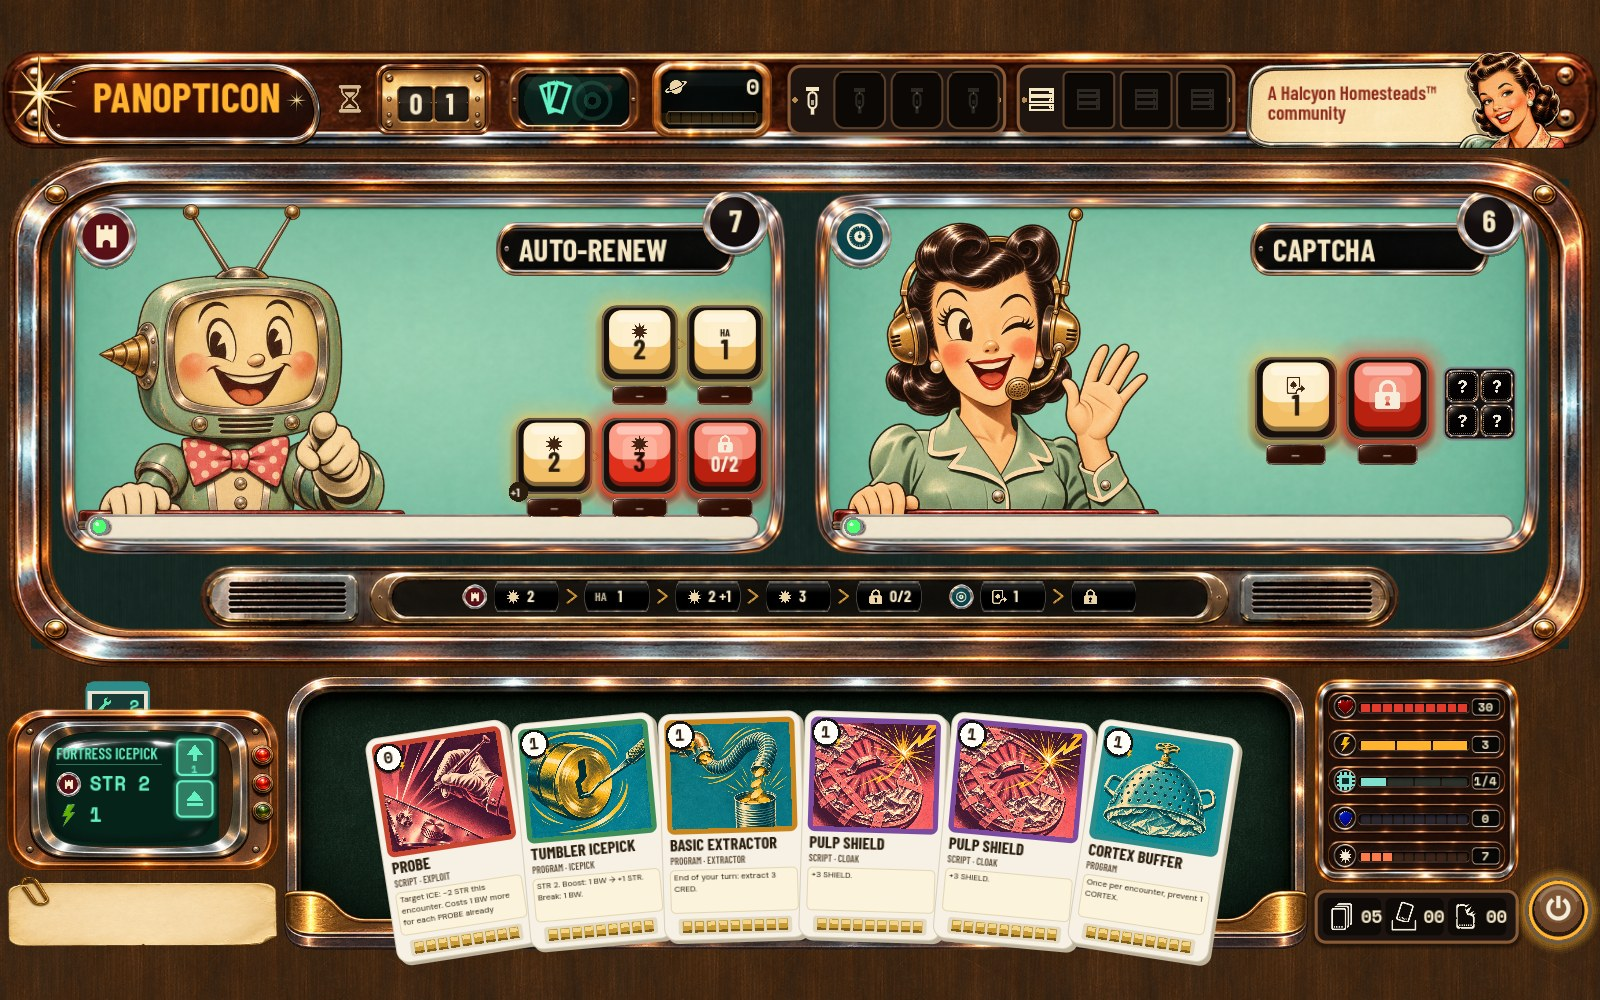
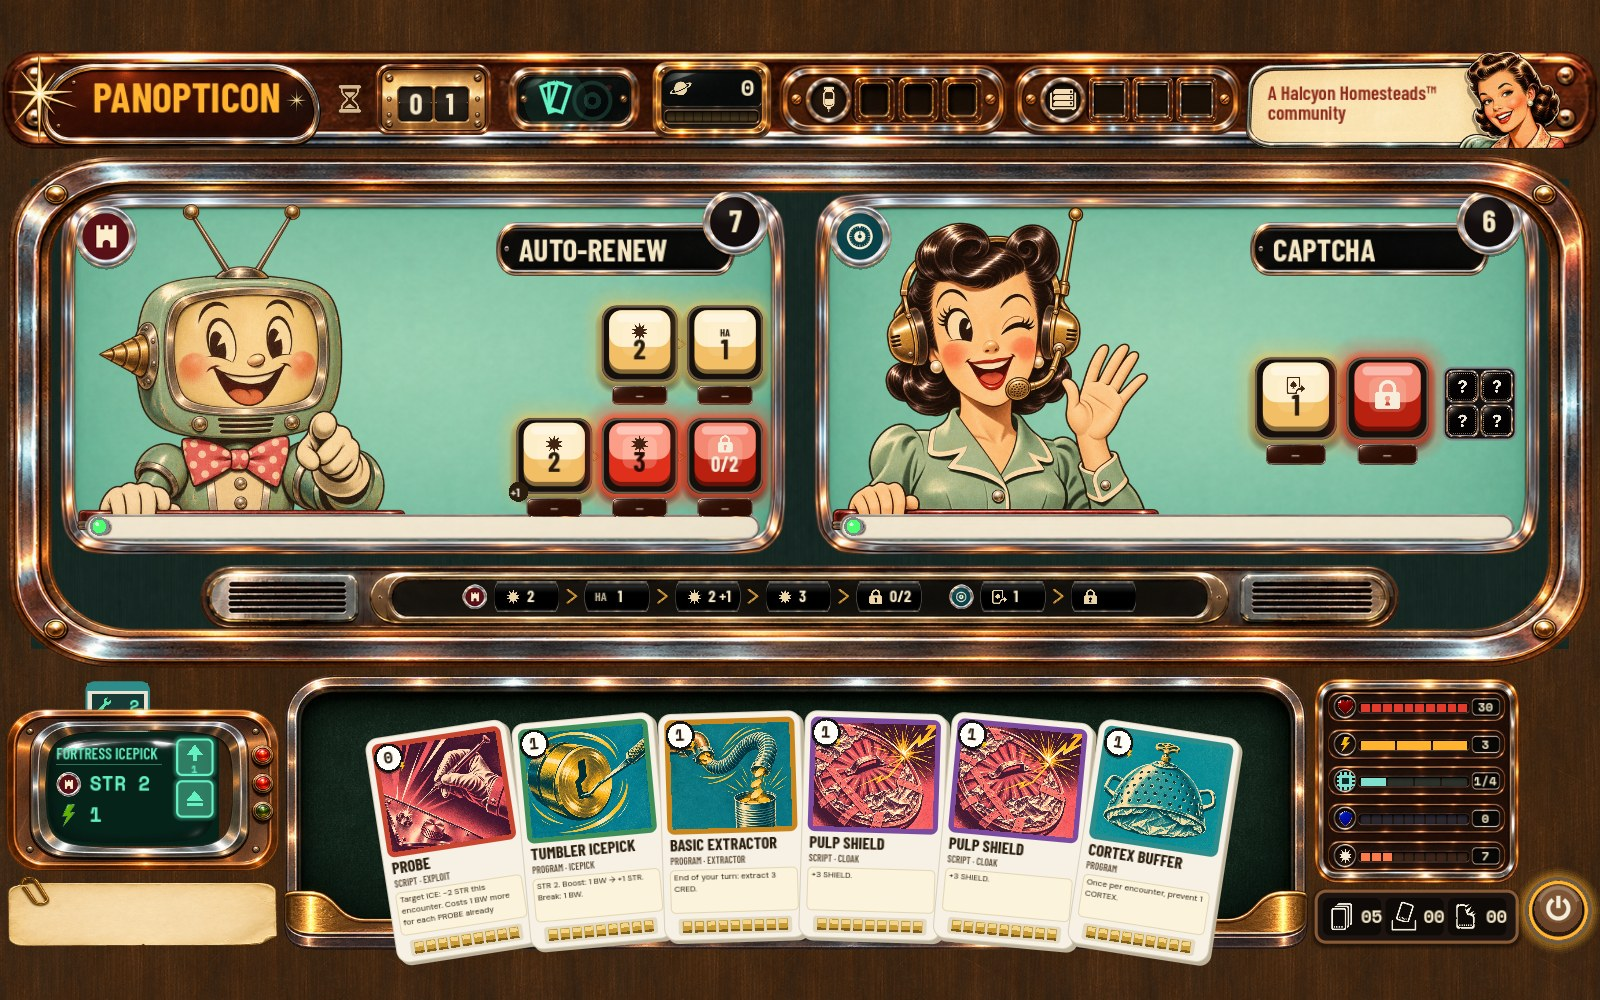
ARCH-V2-005d: header slot art (VAS-ASSET-001 6e) added and wired
Seven ChatGPT parts: half phase plaque, half TRACE housing, slot rack,
CAP and PROTOCOL sockets, CAPS and PROTOCOL icons. Plaque and rack drawn
as nine-slices (both wider than asked); racks 219 px; slots ~37 x 41.

Claude-Session: https://claude.ai/code/session_019hKEHu4UdPqY8EmrmFPKzG

Changed region(s): [[0.3125, 0.062, 0.7812, 0.155]]

diff --git a/docs/HANDOFF.md b/docs/HANDOFF.md
@@ -45,7 +45,7 @@ This is the one list of work that has been **decided but not finished**, so Code
 | ARCH-V2-003 Batch 1: ICE encounter components (C02, C04, C07–C09, C18), shared rail, event flyout, playable N2A sandbox | Claude Code | **BUILT** (approved in principle): `0ae151b` record, `1e07d20` components, `8017aad` tests/CI; `test_arch_v2_ice.gd` 124/0, baseline unchanged; 19 captures, evidence in `docs/visual/fixtures/arch-v2-batch1/`; [#21](https://github.com/Punkwork/REDLINE/issues/21), [#24](https://github.com/Punkwork/REDLINE/issues/24). Geometry, drawn icons and flyout treatment PROVISIONAL until the visual reference is agreed with ChatGPT and Codex. Badge hover wording settled by the designer (ARCH-V2-003j: type only; `ICE STRENGTH: n`). *Interpretations to confirm:* amber ring for the firing key; fired rail steps dim; panels centred vertically at three ICE; Codex art drops in through `ice_panel_layout.tres` |
 | VAS-ASSET-001: painted asset spec for the VAS-001 screen (ChatGPT prompts, sizes, nine-slice margins, engine/existing-art tracks) | Claude Code → designer (ChatGPT) | **PROPOSED**: [`architecture-v2/VAS-001_ASSET_SPEC.md`](architecture-v2/VAS-001_ASSET_SPEC.md). Designer runs the three ChatGPT conversations (§6); Claude Code wires delivered PNGs. LAYER/EXTRACT header content still open |
 | ARCH-V2-004 Batch 2: HuCard CardView (C11), hand of cards (C10), ICE targeting, ChoiceOverlay (C15), card hover inspector | Claude Code | **BUILT, PROPOSED for visual review**: captures `docs/visual/fixtures/arch-v2-batch2/`. *Interpretations to confirm:* type colours (EXPLOIT red, CLOAK violet, ICEPICK green, EXTRACTOR gold, VIRUS olive, HARDWARE steel); rules field shows three lines, full text on hover; targeting by clicking the ICE panel (✕/Esc/second click cancels); choice wording reused from the prototype overlays; only the ten starter cards have art in the repo so far (93 more in the designer's folder) |
-| ARCH-V2-005 before Batch 3: coverage table (`docs/architecture-v2/ENCOUNTER_COVERAGE.md`), `test_arch_v2_coverage.gd`, half-width turn indicator and TRACE meter, CAPS and PROTOCOLS header racks (3 slots each) | Claude Code | **BUILT, PROPOSED for visual review**: captures `docs/visual/fixtures/arch-v2-batch2/v2_18`–`v2_20`. Art: ChatGPT prompts VAS-ASSET-001 §6e (designer). Gaps for Batch 3 listed in the coverage table |
+| ARCH-V2-005 before Batch 3: coverage table (`docs/architecture-v2/ENCOUNTER_COVERAGE.md`), `test_arch_v2_coverage.gd`, half-width turn indicator and TRACE meter, CAPS and PROTOCOLS header racks (3 slots each) | Claude Code | **BUILT, PROPOSED for visual review**: captures `docs/visual/fixtures/arch-v2-batch2/v2_18`–`v2_20`. Art: the seven §6e parts delivered and wired (ARCH-V2-005d; slots about 37 × 41 px, to confirm). Gaps for Batch 3 listed in the coverage table |
 | ARCH-V2-003w: CRT program actions (BOOST, UNINSTALL, EJECT); optional row-return arrow mock | Claude Code | **BUILT, PROPOSED for visual review**: `v2_crt_program_actions_2x.jpg`, `v2_15_row_return_arrow_option.jpg`. *Interpretations to confirm:* action keys are drawn glyphs (▲ boost with BW cost, card-out uninstall, ⏏ eject) about 36 px; arrow off unless the designer wants it |
 | ARCH-V2-003u/v: 12-card fan; horizontal counters under the meters; HuCard cartridges in the CRT rig (click = show + active); subroutine keys right-aligned, two rows past four | Claude Code | **BUILT, PROPOSED for visual review**: captures `docs/visual/fixtures/arch-v2-composition/` (`v2_14_twelve_card_hand.jpg` new). *Interpretations to confirm:* cartridge click = active program for key clicks; CRT shows name, ICE type, STR, BW break cost (rule on hover); six keys split 3 + 3; no chevron between the rows |
 | ARCH-V2-003s/t: full-width ICE enclosure; CRT (rig) + effects note lower left; meters right of the hand; END TURN a small brown power button bottom right; ADP-2b hesitation speech | Claude Code | **BUILT, PROPOSED for visual review**: captures `docs/visual/fixtures/arch-v2-composition/`. *Interpretations to confirm:* the rig chips moved to the remaining CRT (the phosphor trace is dropped); END TURN drawn as a power button rather than a C64 return key; hesitation bubble 2 s; the side pipe removed |

diff --git a/godot/assets/architecture_v2/MANIFEST.md b/godot/assets/architecture_v2/MANIFEST.md
@@ -40,7 +40,14 @@ Parts for the VAS-001 encounter screen, per [`docs/architecture-v2/VAS-001_ASSET
 | `controls/V2_PIPE_V.png` | 112 × 664 | tile (vertical) | ChatGPT (§6d-7); trimmed, re-cut to a repeating section and cross-faded by Claude Code (original top/bottom did not match) | 2d49842742af | PROPOSED |
 | `controls/V2_PIPE_JOINT.png` | 704 × 702 | — | ChatGPT (§6d-8), trimmed | a3f528595924 | PROPOSED |
 
-Conversation 1 (§6b) complete. Conversation 2 (§6c) complete (13 parts). Conversation 3 (§6d) complete. All three conversations done; parts dropped in favour of engine states or icon-first design are noted in the spec.
+| `controls/V2_GLASS_PLAQUE_HALF.png` | 1724 × 576 | 230/120/230/120 | ChatGPT (§6e-1), trimmed; 3:1 (asked 2:1), drawn as a nine-slice at 126 × 63 | f290bf2b7f5a | PROPOSED |
+| `controls/V2_GAUGE_HOUSING_HALF.png` | 1515 × 944 | — | ChatGPT (§6e-2), trimmed; ten empty cells baked into the trough (the game lights them, 2 TRACE each) | c2331a365544 | PROPOSED |
+| `controls/V2_SLOT_RACK.png` | 2186 × 410 | 440/80/150/80 | ChatGPT (§6e-3), trimmed; 5.3:1 (asked 3:1), nine-sliced at 219 × 68 so the icon socket keeps its shape; sockets end up about 37 × 41 px | b2c7c613ec96 | PROPOSED |
+| `controls/V2_CAP_SOCKET.png` | 1089 × 1226 | — | ChatGPT (§6e-4), trimmed | b59b44bb9a87 | PROPOSED |
+| `controls/V2_PROTOCOL_SOCKET.png` | 1154 × 1266 | — | ChatGPT (§6e-5), trimmed | 39da937ab3bc | PROPOSED |
+| `icons/V2_ICON_CAPS_LIGHT.png` | 256 × 256 | — | ChatGPT (§6e-6), trimmed, squared and downscaled | af418f9191ce | PROPOSED |
+| `icons/V2_ICON_PROTOCOL_LIGHT.png` | 256 × 256 | — | ChatGPT (§6e-7), trimmed, squared and downscaled | 29551c4ab274 | PROPOSED |
+Conversation 1 (§6b) complete. Conversation 2 (§6c) complete (13 parts). Conversation 3 (§6d) complete. All three conversations done; conversation 4 (§6e, header slots) delivered 2026-11-26; parts dropped in favour of engine states or icon-first design are noted in the spec.
 
 ## Revised ICE avatars (ARCH-V2-003p, 2026-11-26)
 

diff --git a/docs/REDLINE_DEVELOPMENT_LOG.md b/docs/REDLINE_DEVELOPMENT_LOG.md
@@ -384,3 +384,8 @@ Designer started Batch 2. Built `CardView` (HuCard body drawn in the engine, typ
 ## 2026-11-26 — ARCH-V2-005: coverage table, coverage test, header CAPS and PROTOCOLS slots (Claude Code)
 
 Designer (18:22): build the coverage table, the test and the placeholders before Batch 3; CAPS and PROTOCOLS slots, 3 each, in the header; turn indicator and TRACE meter at half width; ChatGPT prompts and a layout image. Built `ENCOUNTER_COVERAGE.md` from `godot/tests/arch_v2_coverage.json` (63 rows; `tools/arch_v2_coverage_md.py`), `test_arch_v2_coverage.gd` (in CI), `HudWidgets.SlotRack/RackSlot/RackIcon`, `VisibleStateAdapter.protocol_models/cap_models`; phase plaque and TRACE gauge use half-width art when it lands and nine-slice the old parts meanwhile. ChatGPT prompts: VAS-ASSET-001 §6e; layout image `docs/visual/fixtures/arch-v2-batch2/v2_header_slots_layout.png`. Tests (Godot 4.3, headless): `test_game.gd` 176/0; `test_adp.gd` 17/0; `test_signal_carbon.gd` 672/0; `test_arch_v2_ice.gd` 182/0; `test_arch_v2_coverage.gd` 506/0; screenshots 28 (CI count updated). No rules change. (LOG-001: moved "2026-11-21 — RIDER-001, AMEND-001, DEFRAG-001, PLAY-002 after Playtest 10 (Claude Code)" to the archive.)
+
+## 2026-11-26 — ARCH-V2-005d: header slot art wired (Claude Code)
+
+Designer uploaded the seven ChatGPT parts from VAS-ASSET-001 §6e. Trimmed (already transparent), icons squared to 256 px, added to `controls/` and `icons/` with manifest rows. Wired: half plaque and slot rack as nine-slices (both wider than asked), TRACE lights the half housing's ten baked cells, sockets frame the slot contents in their windows, group icons sit in the rack's round socket. Racks 219 px wide (x 748 and 973); slots about 37 × 41 px; the coverage test's slot-size check follows the art (≥ 34 × 38). Tests: `test_arch_v2_ice.gd` 182/0; `test_arch_v2_coverage.gd` 506/0; screenshots 28. No rules change.
+

diff --git a/docs/REDLINE_MASTER_DESIGN.md b/docs/REDLINE_MASTER_DESIGN.md
@@ -3365,4 +3365,5 @@ ChatGPT's independent check of `main` references covered the principal governanc
 - **(c) Header:** turn indicator 252 → 126 px and TRACE meter 230 → 115 px (reference pixels); TRACE bar now 10 cells of 2 TRACE. In the freed space, left to right: **CAPS rack** (3 slots) and **PROTOCOLS rack** (3 slots), each with a group icon; names and rules on hover/focus. PROTOCOL slots are live (deployed PROTOCOLs, in order; more than three shows "+n" on the last slot, named on hover). CAP slots are empty placeholders: the CAPS inventory is not in the rules engine yet (UPL-001: 3 slots), and they fill from it when it is. Drawn placeholders until the ChatGPT parts land (VAS-ASSET-001 §6e).
 
 *Interpretations to confirm:* CAPS left of PROTOCOLS; "+n" overflow when more than three PROTOCOLs are deployed (the rules don't cap the RACK); TRACE bar at 2 TRACE per cell. No gameplay or rules change.
+- **(d) Art delivered (designer, 2026-11-26 18:49):** the seven §6e parts are in `godot/assets/architecture_v2/controls/` and `icons/` and wired. Two came back wider than asked (half plaque 3:1, slot rack 5.3:1); both are drawn as nine-slices so their ends keep their shape. To fit, the racks grew to 219 px each (CAPS at x 748, PROTOCOLS at 973) and each slot is about 37 × 41 px. *Interpretation to confirm:* that slot size is acceptable, or ChatGPT redoes `V2_SLOT_RACK` at 3:1 with a smaller icon socket.
 
